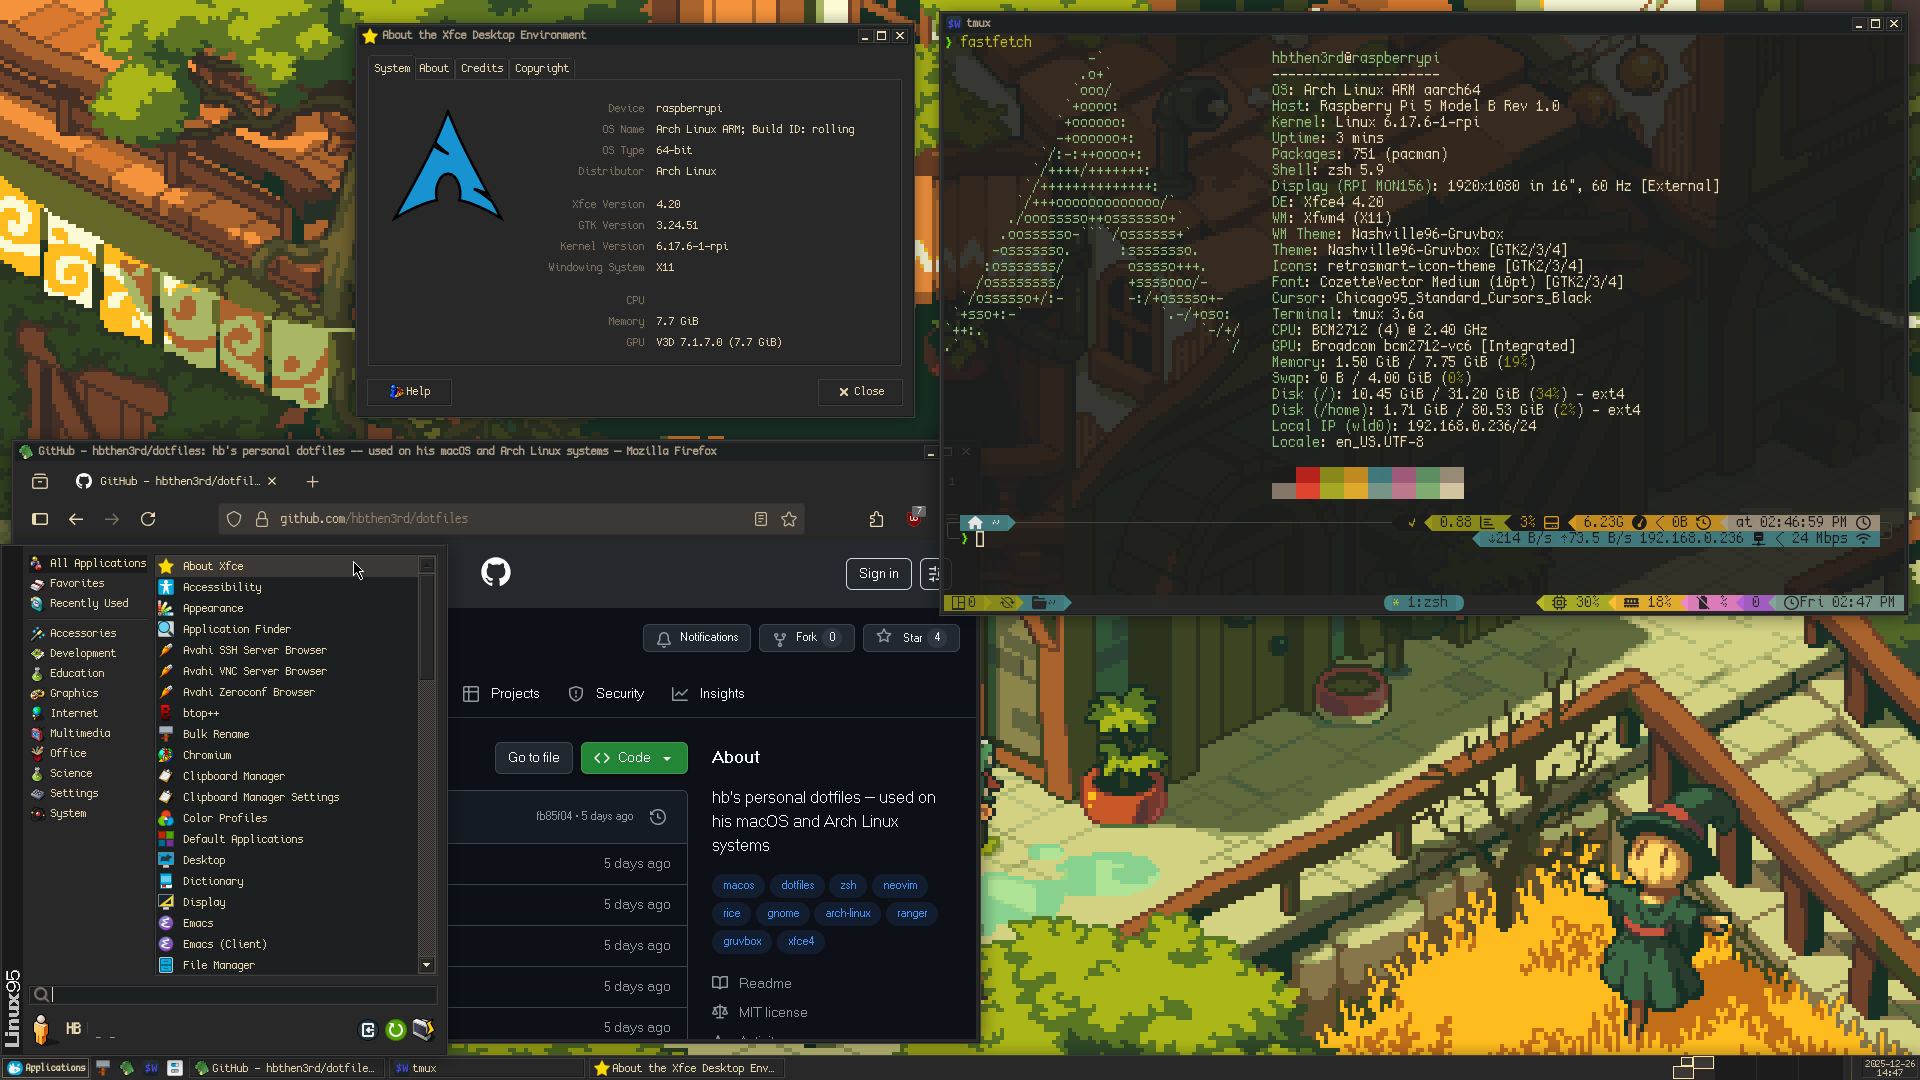
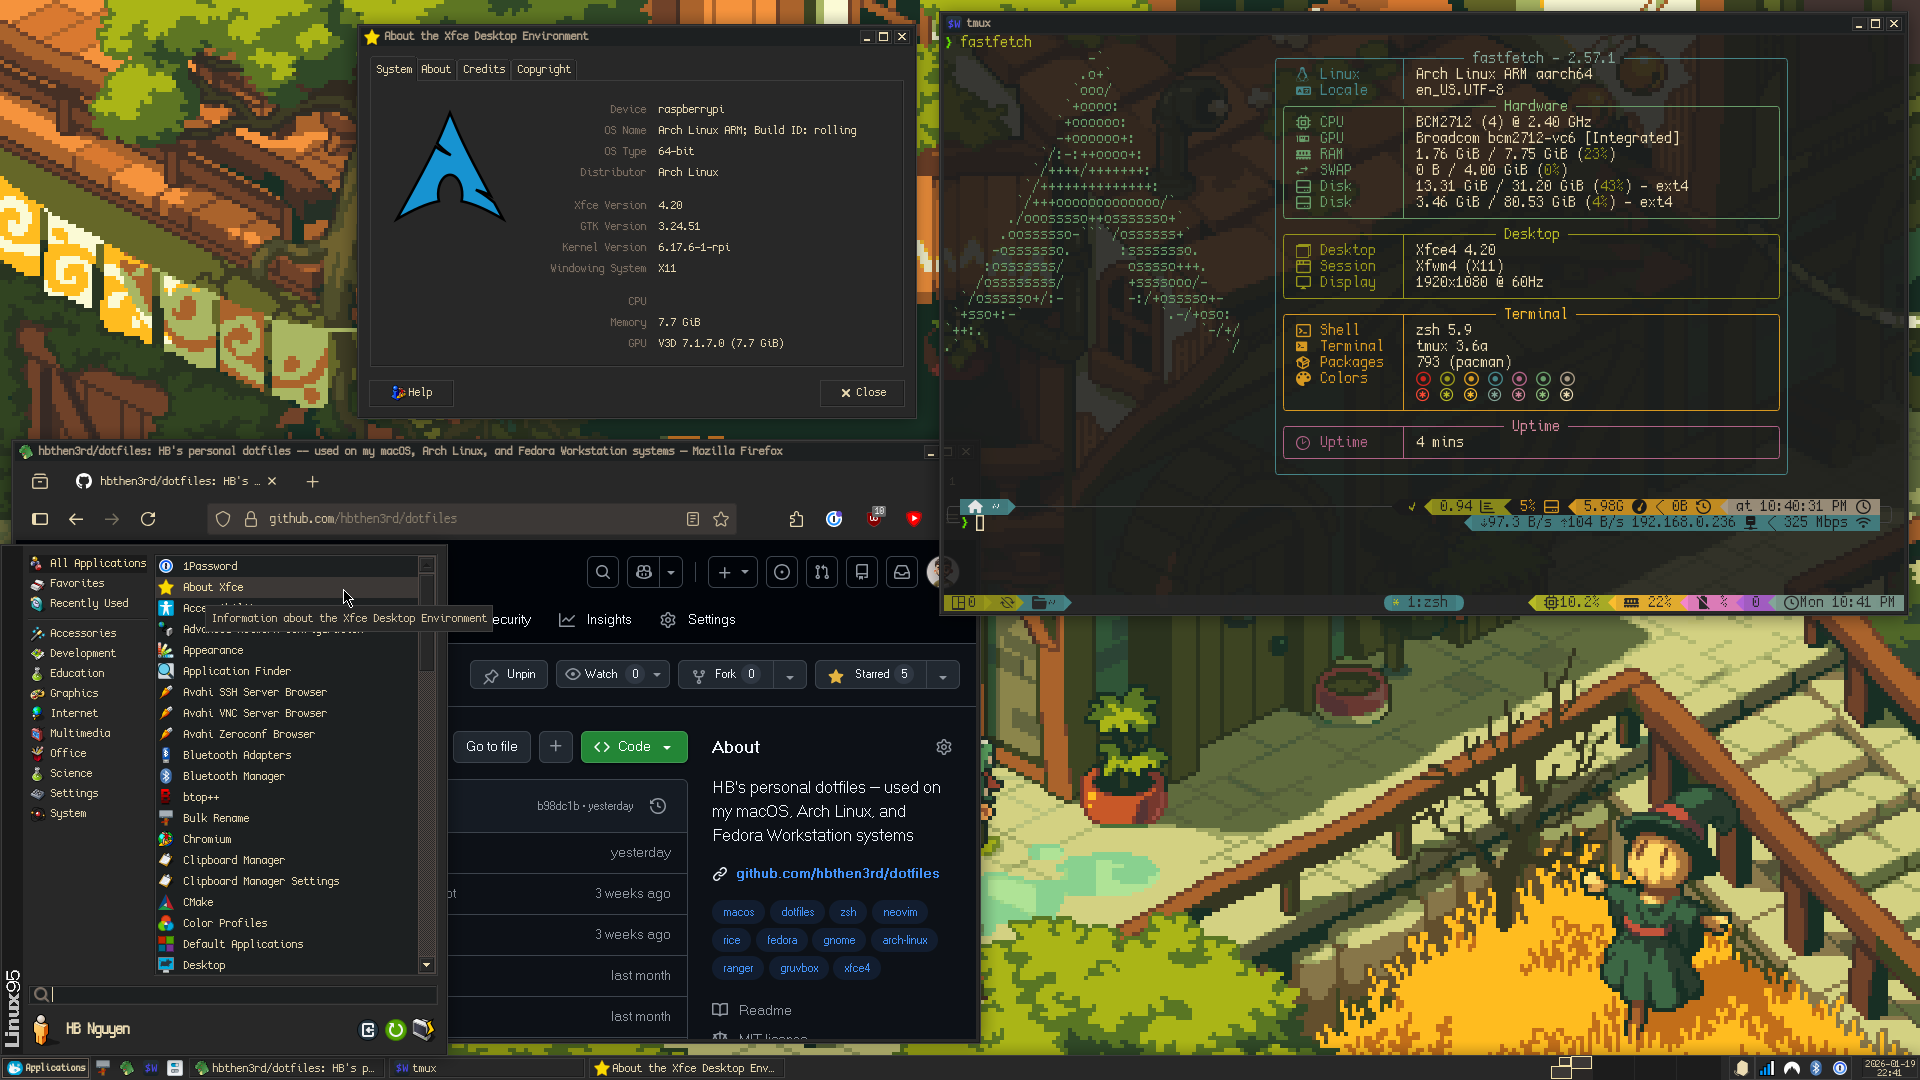
arch screenshot update

diff --git a/README.md b/README.md
@@ -45,17 +45,26 @@
 ## Fonts
 
 - Editor:
-  - Fira Code (macOS / Fedora Workstation):
+  - Fira Code:
     - macOS (`brew` cask): https://formulae.brew.sh/cask/font-fira-code
+    - Arch Linux (`pacman`/`yay`): https://archlinux.org/packages/extra/any/ttf-fira-code/
     - Fedora Workstation (`dnf`): https://packages.fedoraproject.org/pkgs/fira-code-fonts/fira-code-fonts/
-  - CozetteVector (Arch Linux):
-    - Arch Linux (`yay` AUR): https://aur.archlinux.org/packages/cozette-ttf
 - Terminal:
-  - FiraCode Nerd Font (macOS / Fedora Workstation):
+  - FiraCode Nerd Font:
     - macOS (`brew` cask): https://formulae.brew.sh/cask/font-fira-code-nerd-font
+    - Arch Linux (`pacman`/`yay`): https://archlinux.org/packages/extra/any/ttf-firacode-nerd/
     - Fedora Workstation (`dnf` Terra): https://fedora.pkgs.org/43/terra/firacode-nerd-fonts-0:3.4.0-1.fc43.noarch.rpm.html
-  - CozetteVector Nerd Font (Arch Linux):
-    - Arch Linux (`yay` AUR): https://aur.archlinux.org/packages/nerd-fonts-cozette-ttf
+
+- XFCE4 - Arch Linux only:
+  - Editor:
+    - CozetteVector (Arch Linux):
+      - Arch Linux (`yay` AUR): https://aur.archlinux.org/packages/cozette-ttf
+  - Terminal:
+    - CozetteVector Nerd Font (Arch Linux):
+      - Arch Linux (`yay` AUR): https://aur.archlinux.org/packages/nerd-fonts-cozette-ttf
+  - WezTerm, add the following two fonts to `.wezterm.lua`:
+    - `"CozetteVector Nerd Font"` (Nerd Font patched version, top)
+    - `"CozetteVector"` (unpatched version, fallback)
 
 ## Shell
 
